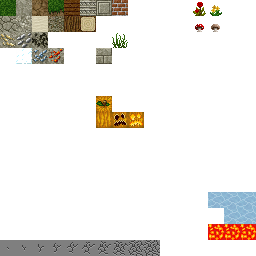
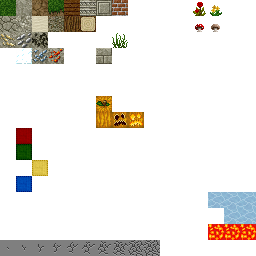
Adding cloth color tiles.

Changed region(s): [[0.0625, 0.5, 0.125, 0.625], [0.125, 0.625, 0.1875, 0.6875], [0.0625, 0.6875, 0.125, 0.75]]

diff --git a/src/blk/env/blocks/clothblock.js b/src/blk/env/blocks/clothblock.js
@@ -1,0 +1,97 @@
+/**
+ * Copyright 2012 Google, Inc. All Rights Reserved.
+ *
+ * Licensed under the Apache License, Version 2.0 (the "License");
+ * you may not use this file except in compliance with the License.
+ * You may obtain a copy of the License at
+ *
+ *     http://www.apache.org/licenses/LICENSE-2.0
+ *
+ * Unless required by applicable law or agreed to in writing, software
+ * distributed under the License is distributed on an "AS IS" BASIS,
+ * WITHOUT WARRANTIES OR CONDITIONS OF ANY KIND, either express or implied.
+ * See the License for the specific language governing permissions and
+ * limitations under the License.
+ */
+
+goog.provide('blk.env.blocks.RedClothBlock');
+goog.provide('blk.env.blocks.GreenClothBlock');
+goog.provide('blk.env.blocks.YellowClothBlock');
+goog.provide('blk.env.blocks.BlueClothBlock');
+
+goog.require('blk.env.BlockFlags');
+goog.require('blk.env.blocks.BlockID');
+goog.require('blk.env.blocks.SolidBlock');
+goog.require('blk.env.materials');
+
+
+
+/**
+ * Cloth block.
+ *
+ * @constructor
+ * @extends {blk.env.blocks.SolidBlock}
+ */
+blk.env.blocks.RedClothBlock = function() {
+  goog.base(this,
+      blk.env.blocks.BlockID.RED_CLOTH,
+      'Red Cloth',
+      blk.env.materials.cloth,
+      blk.env.BlockFlags.BREAKABLE | blk.env.BlockFlags.COLLIDABLE,
+      129);
+};
+goog.inherits(blk.env.blocks.RedClothBlock, blk.env.blocks.SolidBlock);
+
+
+
+/**
+ * Cloth block.
+ *
+ * @constructor
+ * @extends {blk.env.blocks.SolidBlock}
+ */
+blk.env.blocks.GreenClothBlock = function() {
+  goog.base(this,
+      blk.env.blocks.BlockID.GREEN_CLOTH,
+      'Green Cloth',
+      blk.env.materials.cloth,
+      blk.env.BlockFlags.BREAKABLE | blk.env.BlockFlags.COLLIDABLE,
+      145);
+};
+goog.inherits(blk.env.blocks.GreenClothBlock, blk.env.blocks.SolidBlock);
+
+
+
+/**
+ * Cloth block.
+ *
+ * @constructor
+ * @extends {blk.env.blocks.SolidBlock}
+ */
+blk.env.blocks.YellowClothBlock = function() {
+  goog.base(this,
+      blk.env.blocks.BlockID.YELLOW_CLOTH,
+      'Yellow Cloth',
+      blk.env.materials.cloth,
+      blk.env.BlockFlags.BREAKABLE | blk.env.BlockFlags.COLLIDABLE,
+      162);
+};
+goog.inherits(blk.env.blocks.YellowClothBlock, blk.env.blocks.SolidBlock);
+
+
+
+/**
+ * Cloth block.
+ *
+ * @constructor
+ * @extends {blk.env.blocks.SolidBlock}
+ */
+blk.env.blocks.BlueClothBlock = function() {
+  goog.base(this,
+      blk.env.blocks.BlockID.BLUE_CLOTH,
+      'Blue Cloth',
+      blk.env.materials.cloth,
+      blk.env.BlockFlags.BREAKABLE | blk.env.BlockFlags.COLLIDABLE,
+      177);
+};
+goog.inherits(blk.env.blocks.BlueClothBlock, blk.env.blocks.SolidBlock);

diff --git a/src/blk/env/map.js b/src/blk/env/map.js
@@ -20,11 +20,15 @@ goog.require('blk.env.BlockSet');
 goog.require('blk.env.Chunk');
 goog.require('blk.env.ChunkCache');
 goog.require('blk.env.Environment');
+goog.require('blk.env.blocks.BlueClothBlock');
 goog.require('blk.env.blocks.BrickBlock');
 goog.require('blk.env.blocks.DirtBlock');
 goog.require('blk.env.blocks.GlassBlock');
+goog.require('blk.env.blocks.GreenClothBlock');
+goog.require('blk.env.blocks.RedClothBlock');
 goog.require('blk.env.blocks.StoneBlock');
 goog.require('blk.env.blocks.WoodBlock');
+goog.require('blk.env.blocks.YellowClothBlock');
 goog.require('gf.log');
 goog.require('goog.Disposable');
 goog.require('goog.array');
@@ -51,6 +55,10 @@ blk.env.Map = function() {
   this.blockSet.registerBlock(new blk.env.blocks.BrickBlock());
   this.blockSet.registerBlock(new blk.env.blocks.WoodBlock());
   this.blockSet.registerBlock(new blk.env.blocks.GlassBlock());
+  this.blockSet.registerBlock(new blk.env.blocks.RedClothBlock());
+  this.blockSet.registerBlock(new blk.env.blocks.GreenClothBlock());
+  this.blockSet.registerBlock(new blk.env.blocks.YellowClothBlock());
+  this.blockSet.registerBlock(new blk.env.blocks.BlueClothBlock());
 
   /**
    * Environment.

diff --git a/src/blk/sim/player.js b/src/blk/sim/player.js
@@ -216,7 +216,11 @@ if (gf.SERVER) {
       map.blockSet.getBlockWithId(blk.env.blocks.BlockID.STONE),
       map.blockSet.getBlockWithId(blk.env.blocks.BlockID.BRICK),
       map.blockSet.getBlockWithId(blk.env.blocks.BlockID.WOOD),
-      map.blockSet.getBlockWithId(blk.env.blocks.BlockID.GLASS)
+      map.blockSet.getBlockWithId(blk.env.blocks.BlockID.GLASS),
+      map.blockSet.getBlockWithId(blk.env.blocks.BlockID.RED_CLOTH),
+      map.blockSet.getBlockWithId(blk.env.blocks.BlockID.GREEN_CLOTH),
+      map.blockSet.getBlockWithId(blk.env.blocks.BlockID.YELLOW_CLOTH),
+      map.blockSet.getBlockWithId(blk.env.blocks.BlockID.BLUE_CLOTH)
     ];
     for (var n = 0; n < blockTypes.length; n++) {
       var blockTool = /** @type {!blk.sim.tools.BlockTool} */ (

diff --git a/src/blk/env/materials.js b/src/blk/env/materials.js
@@ -60,3 +60,13 @@ blk.env.materials.glass = new blk.env.Material(
     blk.env.MaterialFlags.MERGE,
     'block_stone', undefined,
     goog.vec.Vec4.createFloat32FromValues(0, 0, 0, 0));
+
+
+/**
+ * Material used for cloth-like blocks.
+ * @type {!blk.env.Material}
+ */
+blk.env.materials.cloth = new blk.env.Material(
+    blk.env.MaterialFlags.SOLID | blk.env.MaterialFlags.OPAQUE,
+    'block_cloth', undefined,
+    goog.vec.Vec4.createFloat32FromValues(0, 0, 0, 0));

diff --git a/src/blk/env/blocks/blockid.js b/src/blk/env/blocks/blockid.js
@@ -38,5 +38,17 @@ blk.env.blocks.BlockID = {
   WOOD: 4,
 
   /** blk.env.blocks.GlassBlock */
-  GLASS: 5
+  GLASS: 5,
+
+  /** blk.env.blocks.RedClothBlock */
+  RED_CLOTH: 6,
+
+  /** blk.env.blocks.GreenClothBlock */
+  GREEN_CLOTH: 7,
+
+  /** blk.env.blocks.YellowClothBlock */
+  YELLOW_CLOTH: 8,
+
+  /** blk.env.blocks.BlueClothBlock */
+  BLUE_CLOTH: 9
 };
